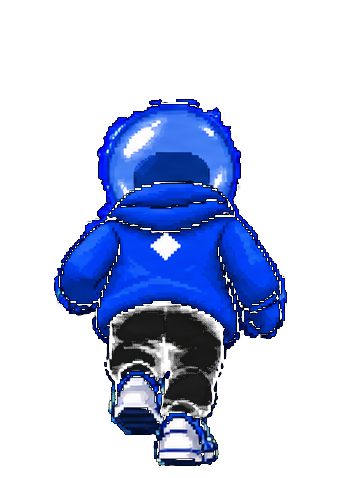
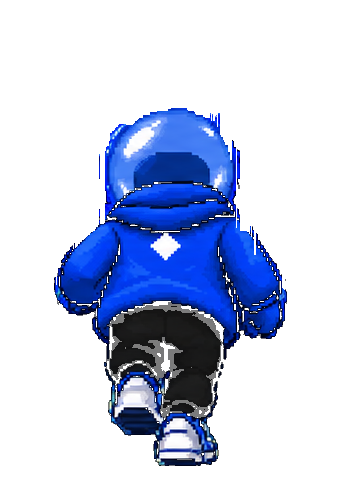
feat: fullscreen arena control and clean slide sprites

diff --git a/public/index.html b/public/index.html
@@ -6,19 +6,19 @@
 <meta name="theme-color" content="#126cff">
 <title>DLICOM RUNNER</title>
 <style>
-:root{--blue:#126cff;--ink:#05070d;--paper:#f7f9ff;--muted:#9ca6bd;--line:#263047;--red:#ff416c}*{box-sizing:border-box}html,body{min-height:100%;margin:0;background:var(--ink);color:var(--paper);font-family:Arial,Helvetica,sans-serif}body{overflow-x:hidden}.shell{width:min(1080px,100%);margin:auto;padding:0 14px}.top{height:66px;display:flex;align-items:center;justify-content:space-between;border-bottom:1px solid var(--line)}.mark{font-size:20px;font-weight:950;letter-spacing:-1.7px}.mark i{display:inline-block;color:var(--blue);font-style:normal;transform:skew(-12deg)}.rule{font:700 11px monospace;letter-spacing:.12em;color:var(--muted)}.intro{padding:38px 0 28px;display:grid;justify-items:center;gap:24px;text-align:center}.intro h1{margin:0;font-size:clamp(48px,9vw,105px);line-height:.78;letter-spacing:-.1em}.intro h1 span{color:var(--blue)}.brief{width:min(440px,100%);border:1px solid var(--line);background:#0b0f19;padding:17px;color:#cbd4e7;font-size:14px;line-height:1.52;text-align:justify}.brief b:first-child{display:block;text-align:center;color:var(--blue);font:900 11px monospace;letter-spacing:.1em}.arena{position:relative;aspect-ratio:16/9;min-height:420px;overflow:hidden;border:1px solid var(--line);background:#080b12;touch-action:none}.arena canvas{display:block;width:100%;height:100%}.hud{pointer-events:none;position:absolute;inset:0;padding:15px;display:flex;justify-content:space-between;align-items:flex-start}.scorebox{display:flex;gap:11px;font:900 11px monospace;color:#aeb9ce}.scorebox b{display:block;color:var(--blue);font-size:21px;letter-spacing:-1px}.surge{opacity:0;background:var(--blue);color:#fff;padding:7px 10px;font:900 11px monospace;letter-spacing:.08em;transition:opacity .15s}.surge.on{opacity:1}.slide{pointer-events:auto;position:absolute;right:12px;bottom:12px;min-height:56px;min-width:96px;border:2px solid var(--blue);background:rgba(5,7,13,.55);color:#fff;font:900 13px monospace;letter-spacing:.08em;cursor:pointer;touch-action:none}.slide:active{background:var(--blue)}.overlay{position:absolute;inset:0;display:grid;place-items:center;text-align:center;background:rgba(5,7,13,.72);padding:20px}.overlay>div{width:min(100%,460px);display:grid;justify-items:center}.overlay[hidden]{display:none}.overlay h2{margin:0 0 13px;font-size:clamp(42px,8vw,82px);line-height:.8;letter-spacing:-.1em}.overlay p{max-width:390px;margin:0 0 21px;color:#c7d1e7;line-height:1.45}.arena.collect{box-shadow:inset 0 0 170px 55px rgba(18,108,255,.85);border-color:#b9d7ff}.arena.damage{box-shadow:inset 0 0 170px 55px rgba(255,65,108,.85);border-color:#ff9ab0}.button{appearance:none;min-height:46px;border:0;background:var(--blue);color:#fff;padding:13px 17px;font:900 13px monospace;letter-spacing:.08em;cursor:pointer}.button:hover{filter:brightness(1.15)}.button:focus-visible{outline:3px solid white;outline-offset:3px}.below{display:grid;grid-template-columns:1fr 1fr 1.45fr;gap:1px;margin:1px 0 38px;background:var(--line)}.panel{min-height:108px;padding:17px;background:#0a0e17}.panel span{display:block;color:var(--muted);font:700 10px monospace;letter-spacing:.1em}.panel strong{display:block;margin-top:7px;font-size:30px;letter-spacing:-.06em}.actions{display:flex;flex-wrap:wrap;gap:8px;margin-top:12px}.secondary{border:1px solid #53617b;background:transparent}.ref{margin-top:10px;color:#9fa9be;font:11px monospace;word-break:break-all}.foot{padding:18px 0 42px;color:#78839b;font:12px monospace;text-align:center}@media(max-width:680px){.intro{grid-template-columns:1fr;padding:29px 0 22px}.brief{width:100%}.arena{margin-left:-14px;margin-right:-14px;aspect-ratio:9/13;min-height:480px;border-left:0;border-right:0}.below{grid-template-columns:1fr}.rule{font-size:9px}}
+:root{--blue:#126cff;--ink:#05070d;--paper:#f7f9ff;--muted:#9ca6bd;--line:#263047;--red:#ff416c}*{box-sizing:border-box}html,body{min-height:100%;margin:0;background:var(--ink);color:var(--paper);font-family:Arial,Helvetica,sans-serif}body{overflow-x:hidden}.shell{width:min(1080px,100%);margin:auto;padding:0 14px}.top{height:66px;display:flex;align-items:center;justify-content:space-between;border-bottom:1px solid var(--line)}.mark{font-size:20px;font-weight:950;letter-spacing:-1.7px}.mark i{display:inline-block;color:var(--blue);font-style:normal;transform:skew(-12deg)}.rule{font:700 11px monospace;letter-spacing:.12em;color:var(--muted)}.intro{padding:38px 0 28px;display:grid;justify-items:center;gap:24px;text-align:center}.intro h1{margin:0;font-size:clamp(48px,9vw,105px);line-height:.78;letter-spacing:-.1em}.intro h1 span{color:var(--blue)}.brief{width:min(440px,100%);border:1px solid var(--line);background:#0b0f19;padding:17px;color:#cbd4e7;font-size:14px;line-height:1.52;text-align:justify}.brief b:first-child{display:block;text-align:center;color:var(--blue);font:900 11px monospace;letter-spacing:.1em}.arena{position:relative;aspect-ratio:16/9;min-height:420px;overflow:hidden;border:1px solid var(--line);background:#080b12;touch-action:none}.arena canvas{display:block;width:100%;height:100%}.hud{pointer-events:none;position:absolute;inset:0;padding:15px;display:flex;justify-content:space-between;align-items:flex-start}.scorebox{display:flex;gap:11px;font:900 11px monospace;color:#aeb9ce}.scorebox b{display:block;color:var(--blue);font-size:21px;letter-spacing:-1px}.surge{opacity:0;background:var(--blue);color:#fff;padding:7px 10px;font:900 11px monospace;letter-spacing:.08em;transition:opacity .15s}.surge.on{opacity:1}.fsbtn{pointer-events:auto;position:absolute;top:10px;right:10px;z-index:5;min-height:38px;min-width:42px;border:2px solid var(--blue);background:rgba(5,7,13,.55);color:#fff;font:16px monospace;cursor:pointer;touch-action:none}.fsbtn:hover{background:var(--blue)}.arena:fullscreen{border-radius:0;border:none;aspect-ratio:auto;height:100vh;margin:0}.arena:fullscreen canvas{height:100%!important;object-fit:contain}.overlay{position:absolute;inset:0;display:grid;place-items:center;text-align:center;background:rgba(5,7,13,.72);padding:20px}.overlay>div{width:min(100%,460px);display:grid;justify-items:center}.overlay[hidden]{display:none}.overlay h2{margin:0 0 13px;font-size:clamp(42px,8vw,82px);line-height:.8;letter-spacing:-.1em}.overlay p{max-width:390px;margin:0 0 21px;color:#c7d1e7;line-height:1.45}.arena.collect{box-shadow:inset 0 0 170px 55px rgba(18,108,255,.85);border-color:#b9d7ff}.arena.damage{box-shadow:inset 0 0 170px 55px rgba(255,65,108,.85);border-color:#ff9ab0}.button{appearance:none;min-height:46px;border:0;background:var(--blue);color:#fff;padding:13px 17px;font:900 13px monospace;letter-spacing:.08em;cursor:pointer}.button:hover{filter:brightness(1.15)}.button:focus-visible{outline:3px solid white;outline-offset:3px}.below{display:grid;grid-template-columns:1fr 1fr 1.45fr;gap:1px;margin:1px 0 38px;background:var(--line)}.panel{min-height:108px;padding:17px;background:#0a0e17}.panel span{display:block;color:var(--muted);font:700 10px monospace;letter-spacing:.1em}.panel strong{display:block;margin-top:7px;font-size:30px;letter-spacing:-.06em}.actions{display:flex;flex-wrap:wrap;gap:8px;margin-top:12px}.secondary{border:1px solid #53617b;background:transparent}.ref{margin-top:10px;color:#9fa9be;font:11px monospace;word-break:break-all}.foot{padding:18px 0 42px;color:#78839b;font:12px monospace;text-align:center}@media(max-width:680px){.intro{grid-template-columns:1fr;padding:29px 0 22px}.brief{width:100%}.arena{margin-left:-14px;margin-right:-14px;aspect-ratio:9/13;min-height:480px;border-left:0;border-right:0}.below{grid-template-columns:1fr}.rule{font-size:9px}}
 </style>
 </head>
 <body><div class="shell">
 <header class="top"><div class="mark">DLICOM<i>◆</i>RUNNER</div></header>
 <main><section class="intro"><h1>MAKE A<br><span>DILI</span><br>RUN AWAY.</h1><div class="brief"><b>HOW TO RUN</b><br>Swipe or press left/right to switch lanes. Press space to jump over red barriers. Press SLIDE or down/S to duck floating hazards. Catch blue signals. Avoid red noise. Every 3 signals triggers <b>DILI-SUPER MODE</b>: double score and immunity.</div></section>
-<section class="arena" id="arena" aria-label="Dlicom Runner game"><div class="hud"><div class="scorebox"><div>SCORE<b id="score">00000</b></div><div>BEST<b id="best">00000</b></div></div><div class="surge" id="surge">DILI-SUPER MODE ACTIVATED ×2</div></div><button class="slide" id="slideBtn" aria-label="Slide under floating obstacle">SLIDE</button><div class="overlay" id="overlay"><div><h2 id="stateTitle">READY?</h2><p id="stateCopy">Swipe or tap side to switch lanes. Space jumps low barriers. Slide ducks floating hazards.</p><button class="button" id="play">START RUN</button></div></div></section>
+<section class="arena" id="arena" aria-label="Dlicom Runner game"><div class="hud"><div class="scorebox"><div>SCORE<b id="score">00000</b></div><div>BEST<b id="best">00000</b></div></div><div class="surge" id="surge">DILI-SUPER MODE ACTIVATED ×2</div></div><button class="fsbtn" id="fsBtn" aria-label="Toggle fullscreen gameplay" title="Fullscreen">⛶</button><div class="overlay" id="overlay"><div><h2 id="stateTitle">READY?</h2><p id="stateCopy">Swipe or tap side to switch lanes. Space jumps low barriers. Slide ducks floating hazards.</p><button class="button" id="play">START RUN</button></div></div></section>
 <section class="below"><div class="panel"><span>BEST RUN</span><strong id="bestPanel">0</strong></div><div class="panel"><span>SHIELD BOOST</span><strong id="shieldPanel">0 / 3</strong><div class="ref" id="refText"></div></div><div class="panel"><span>AFTER RUN</span><div class="actions"><button class="button secondary" id="share">POST SCORE ON X</button><button class="button secondary" id="banner">SAVE BANNER</button></div></div></section>
 </main><footer class="foot">DLICOM RUNNER BY FLX · PLAY FIRST, POST THEN.</footer></div>
 <script type="module">
 import * as THREE from './vendor/three.module.min.js';
 import {newGame,advance,difficultyLevel} from './game-core.js';
-const el=id=>document.querySelector('#'+id), arena=el('arena'), scoreEl=el('score'),bestEl=el('best'),bestPanel=el('bestPanel'),surgeEl=el('surge'),overlay=el('overlay'),play=el('play'),slideBtn=el('slideBtn');
+const el=id=>document.querySelector('#'+id), arena=el('arena'), scoreEl=el('score'),bestEl=el('best'),bestPanel=el('bestPanel'),surgeEl=el('surge'),overlay=el('overlay'),play=el('play');
 let renderer,scene,camera,player,clock,game,entities=[],roadMarkers=[],bursts=[],runnerTextures=[],jumpTextures=[],slideTextures=[],audioCtx,musicTimer=null,musicStep=0,runClock=0,prevLevel=1,prevSurge=0,running=false,lane=1,high=Number(localStorage.dlicomRunnerHigh||0),lastSpawn=0,pointerX=null,jumpRequested=false,slideRequested=false,flashTimer=0,damageTimer=0;
 const lanes=[-2.7,0,2.7],PLAYER_LANE_HITBOX=.44,PLAYER_DEPTH_MIN=1.05,PLAYER_DEPTH_MAX=1.55,shields=Number(localStorage.dlicomRunnerShield||0),refCode=localStorage.dlicomRunnerCode||(localStorage.dlicomRunnerCode=Math.random().toString(36).slice(2,8).toUpperCase());
 const incoming=new URLSearchParams(location.search).get('ref');if(incoming&&incoming!==localStorage.dlicomRunnerRef){localStorage.dlicomRunnerRef=incoming;localStorage.dlicomRunnerShield=Math.min(3,shields+1)}
@@ -43,5 +43,5 @@ function finish(){running=false;stopMusic();high=Math.max(high,game.score);local
 function loop(){if(!running)return;const dt=Math.min(.04,clock.getDelta()),speed=13+Math.min(15,game.distance*.55);runClock+=dt;lastSpawn+=dt;if(lastSpawn>.7){spawn();lastSpawn=0}let collect=false;for(const e of entities){e.position.z+=speed*dt;e.rotation.y+=dt*2;if(!e.userData.hit&&e.position.z>PLAYER_DEPTH_MIN&&e.position.z<PLAYER_DEPTH_MAX&&Math.abs(e.position.x-lanes[lane])<PLAYER_LANE_HITBOX){if(e.userData.type==='signal'){collect=true;removeEntity(e,'signal');continue}const type=e.userData.type==='drone'?'flying':'ground';game=advance(game,{hit:true,hitType:type,jump:jumpRequested,slide:slideRequested,dt:0});jumpRequested=false;slideRequested=false;if(game.over){finish();return}burst(e.position,e.userData.type);e.userData.hit=true;e.userData.dead=true;scene.remove(e);continue}if(e.position.z>11){scene.remove(e);e.userData.dead=true}}entities=entities.filter(e=>!e.userData.dead);for(const b of bursts){b.life-=dt;for(const p of b.group.children){p.position.addScaledVector(p.userData.v,dt);p.userData.v.y-=dt*4;p.material.opacity=Math.max(0,b.life*2)}b.group.children.forEach(p=>p.rotation.z+=dt*6);if(b.life<=0)scene.remove(b.group)}bursts=bursts.filter(b=>b.life>0);for(const m of roadMarkers){m.position.z+=speed*dt;if(m.position.z>14)m.position.z-=112}game=advance(game,{collect,jump:jumpRequested,slide:slideRequested,dt});jumpRequested=false;slideRequested=false;if(game.surge>0&&prevSurge<=0){sfx('supermode');flashTimer=.32}prevSurge=game.surge;const level=difficultyLevel(game.score);if(level>prevLevel){sfx('surge');prevLevel=level}player.position.x+=(lanes[lane]-player.position.x)*Math.min(1,dt*13);player.rotation.z=(lanes[lane]-player.position.x)*-.15;const jumpPhase=1-game.jump/.62;player.position.y=game.jump>0?Math.sin(jumpPhase*Math.PI)*1.35:0;player.scale.y=1;const slidePhase=1-game.slide/.48;player.userData.sprite.material.map=game.jump>0?jumpTextures[Math.min(7,Math.floor(jumpPhase*8))]:game.slide>0?slideTextures[Math.min(7,Math.floor(slidePhase*8))]:runnerTextures[Math.floor(runClock*10)%8];scene.fog.color.set(game.surge>0?0x071a43:0x05070d);surgeEl.classList.toggle('on',game.surge>0);scoreEl.textContent=String(game.score).padStart(5,'0');bestEl.textContent=String(high).padStart(5,'0');if(flashTimer>0){flashTimer-=dt;if(flashTimer<=0)arena.classList.remove('collect')}if(damageTimer>0){damageTimer-=dt;if(damageTimer<=0)arena.classList.remove('damage')}renderer.render(scene,camera);if(game.over){finish();return}requestAnimationFrame(loop)}
 function post(){const text=`I scored ${high} in DLICOM RUNNER. Keep the signal alive.\n${location.origin+location.pathname}?ref=${refCode}`;open('https://x.com/intent/post?text='+encodeURIComponent(text),'_blank','noopener')}
 function saveBanner(){const b=document.createElement('canvas');b.width=1200;b.height=630;const x=b.getContext('2d');x.fillStyle='#05070d';x.fillRect(0,0,b.width,b.height);x.fillStyle='#126cff';x.fillRect(0,0,20,b.height);x.fillStyle='#fff';x.font='900 70px Arial';x.fillText('DLICOM RUNNER',75,110);x.fillStyle='#126cff';x.font='900 190px Arial';x.fillText(String(high).padStart(5,'0'),70,340);x.fillStyle='#cbd4e7';x.font='32px Arial';x.fillText('KEEP THE SIGNAL ALIVE.',75,410);x.fillStyle='#126cff';x.beginPath();x.arc(1010,310,150,0,Math.PI*2);x.fill();x.fillStyle='#fff';x.font='900 110px Arial';x.fillText('◆',950,350);const a=document.createElement('a');a.download='dlicom-runner-score.png';a.href=b.toDataURL('image/png');a.click()}
-addEventListener('keydown',e=>{if(e.key==='ArrowLeft'||e.key==='a')move(-1);if(e.key==='ArrowRight'||e.key==='d')move(1);if((e.key===' '||e.code==='Space')&&running){e.preventDefault();jumpRequested=true}if((e.key==='ArrowDown'||e.key==='s')&&running){e.preventDefault();slideRequested=true}});slideBtn.addEventListener('pointerdown',e=>{e.preventDefault();if(running)slideRequested=true});arena.addEventListener('pointerdown',e=>{pointerX=e.clientX});arena.addEventListener('pointerup',e=>{if(pointerX===null)return;const dx=e.clientX-pointerX;move(Math.abs(dx)>22?(dx>0?1:-1):(e.clientX>arena.getBoundingClientRect().left+arena.clientWidth/2?1:-1));pointerX=null});play.onclick=reset;el('share').onclick=post;el('banner').onclick=saveBanner;bestEl.textContent=String(high).padStart(5,'0');bestPanel.textContent=high;setup();renderer.render(scene,camera);
+addEventListener('keydown',e=>{if(e.key==='ArrowLeft'||e.key==='a')move(-1);if(e.key==='ArrowRight'||e.key==='d')move(1);if((e.key===' '||e.code==='Space')&&running){e.preventDefault();jumpRequested=true}if((e.key==='ArrowDown'||e.key==='s')&&running){e.preventDefault();slideRequested=true}});arena.addEventListener('pointerdown',e=>{pointerX=e.clientX});arena.addEventListener('pointerup',e=>{if(pointerX===null)return;const dx=e.clientX-pointerX;move(Math.abs(dx)>22?(dx>0?1:-1):(e.clientX>arena.getBoundingClientRect().left+arena.clientWidth/2?1:-1));pointerX=null});play.onclick=reset;el('fsBtn').onclick=()=>{if(document.fullscreenElement){document.exitFullscreen()}else{arena.requestFullscreen().catch(()=>{})}};document.addEventListener('fullscreenchange',()=>{el('fsBtn').textContent=document.fullscreenElement?'⤡':'⛶';resize()});el('share').onclick=post;el('banner').onclick=saveBanner;bestEl.textContent=String(high).padStart(5,'0');bestPanel.textContent=high;setup();renderer.render(scene,camera);
 </script></body></html>

diff --git a/test/dom-id-selector.test.js b/test/dom-id-selector.test.js
@@ -26,9 +26,14 @@ test('runner cycle runs at original 10fps pace', () => {
   assert.match(html, /runnerTextures\[Math\.floor\(runClock\*10\)%8\]/);
 });
 
-test('collision delegates dodge outcome to game core in the same frame', () => {
+test('slide control is swipe-only and gameplay box has fullscreen', () => {
   const html = readFileSync(new URL('../public/index.html', import.meta.url), 'utf8');
-  assert.match(html, /hitType:type,jump:jumpRequested,slide:slideRequested/);
+  assert.ok(!html.includes('slideBtn'), 'on-screen slide button must be gone');
+  assert.match(html, /id="fsBtn"/);
+  assert.match(html, /requestFullscreen/);
+  assert.match(html, /fullscreenchange/);
+  assert.match(html, /ArrowDown/);
+  assert.match(html, /SLIDE or down\/S/);
 });
 
 test('player collision window uses compact hitbox constants', () => {
